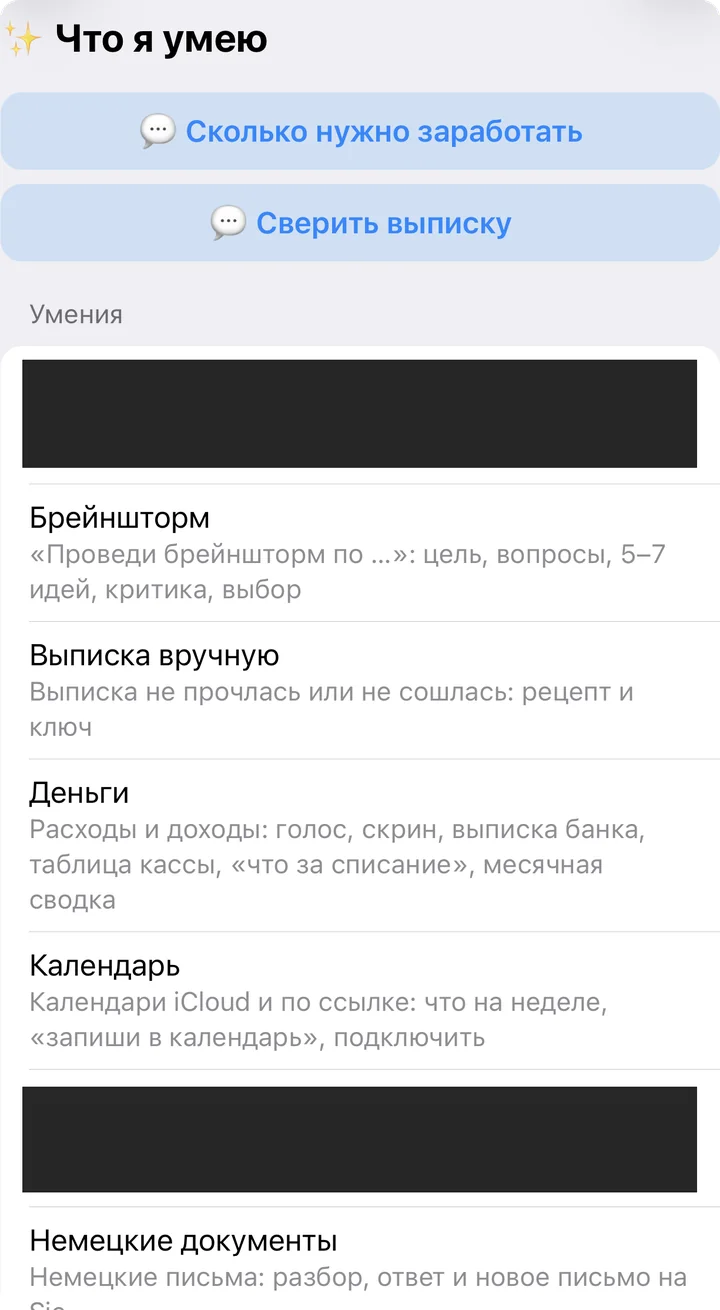
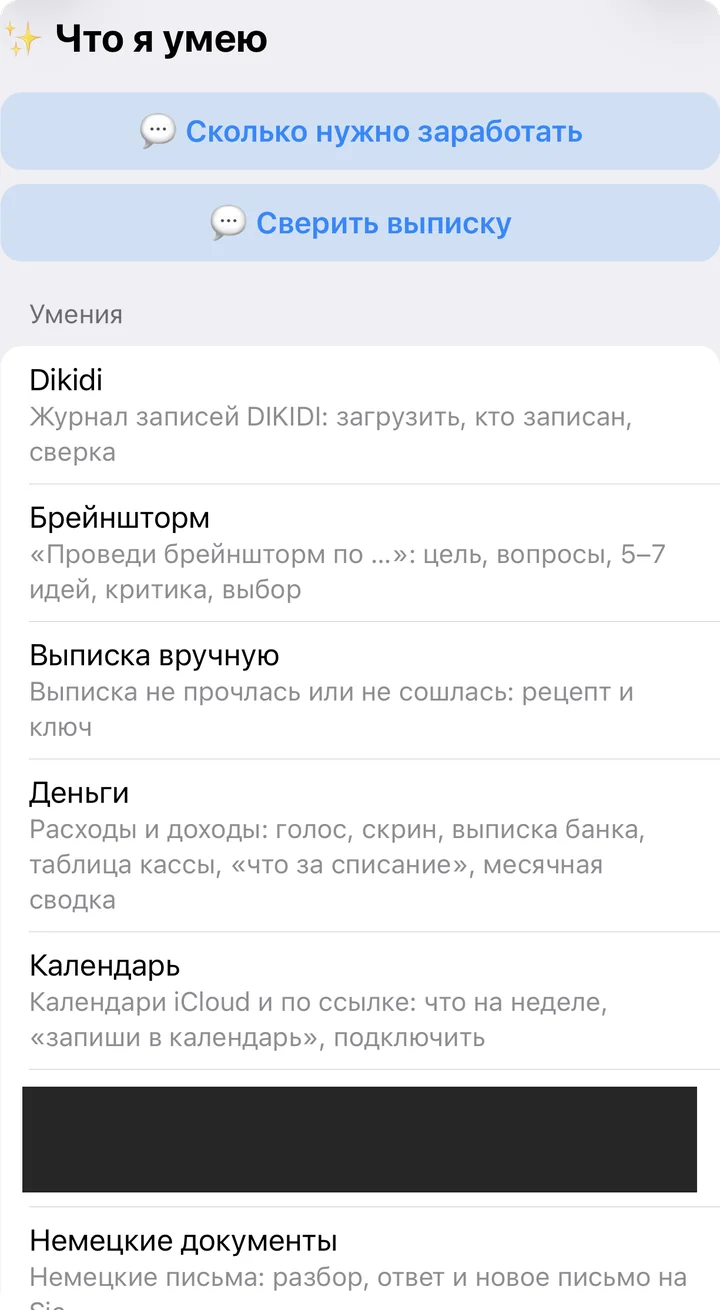
Кейс асистента: б'юті-студія, DIKIDI і SumUp за згодою клієнтки

Changed region(s): [[0.0306, 0.2748, 0.9778, 0.3664]]

diff --git a/ru/cases.html b/ru/cases.html
@@ -58,7 +58,7 @@
 </div></section>
 </article>
 <article class="case">
-<p class="kicker">Владелица бизнеса в Германии</p>
+<p class="kicker">Владелица бьюти-студии в Германии</p>
 <h2>Заменили персонального ассистента</h2>
 <dl class="res">
 <div><dt>в неделю освобождает</dt><dd>≈ 10 ч</dd></div>
@@ -69,8 +69,8 @@
 <div class="two"><section><h3>Заказчик хотел</h3><p>Держать задачи, деньги, немецкие документы и мысли в одном месте, а не в голове. Владелица часто в дороге, поэтому всё должно было работать голосом.</p></section>
 <section><h3>Мы сделали</h3><p>Личного AI-ассистента в Telegram и мини-апп. Наговорила голосовое, а он разложил сказанное по задачам, расходам и заметкам.</p></section></div>
 <section><h3>Как это работает</h3><div class="groups">
-<details class="group"><summary>Задачи и календарь</summary><ul><li>Раскладывает голосовые по задачам и заметкам, напоминает о сроках.</li><li>Ведёт поручения сотрудницам и принимает их отчёты.</li><li>Работает с календарями и журналом записей.</li></ul></details>
-<details class="group"><summary>Деньги</summary><ul><li>Считает расходы и доходы: голос, скрин, выписка банка, таблица кассы.</li><li>Показывает, что не оплачено и кто должен, составляет месячную сводку.</li></ul></details>
+<details class="group"><summary>Задачи и календарь</summary><ul><li>Раскладывает голосовые по задачам и заметкам, напоминает о сроках.</li><li>Ведёт поручения сотрудницам и принимает их отчёты.</li><li>Работает с календарями iCloud и журналом записей DIKIDI.</li></ul></details>
+<details class="group"><summary>Деньги</summary><ul><li>Считает расходы и доходы: голос, скрин, выписка банка, таблица кассы, SumUp.</li><li>Показывает, что не оплачено и кто должен, составляет месячную сводку.</li></ul></details>
 <details class="group"><summary>Документы и память</summary><ul><li>Разбирает немецкие письма и готовит ответ.</li><li>Помнит контекст, ведёт дневник, помогает с брейнштормом.</li><li>Читает папку в Google Диске и заполняет таблицы.</li></ul></details>
 </div></section>
 <section><h3>Как это выглядит</h3><div class="shots">

diff --git a/cases.html b/cases.html
@@ -58,7 +58,7 @@
 </div></section>
 </article>
 <article class="case">
-<p class="kicker">Власниця бізнесу в Німеччині</p>
+<p class="kicker">Власниця б’юті-студії в Німеччині</p>
 <h2>Замінили персонального асистента</h2>
 <dl class="res">
 <div><dt>на тиждень звільняє</dt><dd>≈ 10 год</dd></div>
@@ -69,8 +69,8 @@
 <div class="two"><section><h3>Замовник хотів</h3><p>Тримати задачі, гроші, німецькі документи й думки в одному місці, а не в голові. Власниця часто в дорозі, тому все мало працювати голосом.</p></section>
 <section><h3>Ми зробили</h3><p>Особистого AI-асистента в Telegram і міні-апку. Наговорила голосове, а він розклав сказане по задачах, витратах і нотатках.</p></section></div>
 <section><h3>Так працює</h3><div class="groups">
-<details class="group"><summary>Задачі й календар</summary><ul><li>Розкладає голосові по задачах і нотатках, нагадує про строки.</li><li>Веде доручення співробітницям і приймає їхні звіти.</li><li>Працює з календарями та журналом записів.</li></ul></details>
-<details class="group"><summary>Гроші</summary><ul><li>Рахує витрати й доходи: голос, скрін, виписка банку, таблиця каси.</li><li>Показує, що не оплачено і хто винен, складає місячне зведення.</li></ul></details>
+<details class="group"><summary>Задачі й календар</summary><ul><li>Розкладає голосові по задачах і нотатках, нагадує про строки.</li><li>Веде доручення співробітницям і приймає їхні звіти.</li><li>Працює з календарями iCloud і журналом записів DIKIDI.</li></ul></details>
+<details class="group"><summary>Гроші</summary><ul><li>Рахує витрати й доходи: голос, скрін, виписка банку, таблиця каси, SumUp.</li><li>Показує, що не оплачено і хто винен, складає місячне зведення.</li></ul></details>
 <details class="group"><summary>Документи й пам’ять</summary><ul><li>Розбирає німецькі листи й готує відповідь.</li><li>Пам’ятає контекст, веде щоденник, допомагає з брейнштормом.</li><li>Читає папку в Google Диску й заповнює таблиці.</li></ul></details>
 </div></section>
 <section><h3>Як це виглядає</h3><div class="shots">

diff --git a/en/cases.html b/en/cases.html
@@ -58,7 +58,7 @@
 </div></section>
 </article>
 <article class="case">
-<p class="kicker">Business owner in Germany</p>
+<p class="kicker">Beauty studio owner in Germany</p>
 <h2>We replaced a personal assistant</h2>
 <dl class="res">
 <div><dt>freed up every week</dt><dd>≈ 10 h</dd></div>
@@ -69,8 +69,8 @@
 <div class="two"><section><h3>The client wanted</h3><p>Keep tasks, money, German paperwork and ideas in one place instead of in her head. The owner is often on the road, so everything had to work by voice.</p></section>
 <section><h3>We built</h3><p>A personal AI assistant in Telegram and a mini app. She records a voice note, and it sorts what she said into tasks, expenses and notes.</p></section></div>
 <section><h3>How it works</h3><div class="groups">
-<details class="group"><summary>Tasks and calendar</summary><ul><li>Sorts voice notes into tasks and notes, reminds about deadlines.</li><li>Tracks assignments for staff and collects their reports.</li><li>Works with calendars and the bookings log.</li></ul></details>
-<details class="group"><summary>Money</summary><ul><li>Tracks expenses and income from voice, screenshots, bank statements and the till sheet.</li><li>Shows what is unpaid and who owes what, and builds a monthly summary.</li></ul></details>
+<details class="group"><summary>Tasks and calendar</summary><ul><li>Sorts voice notes into tasks and notes, reminds about deadlines.</li><li>Tracks assignments for staff and collects their reports.</li><li>Works with iCloud calendars and the DIKIDI bookings log.</li></ul></details>
+<details class="group"><summary>Money</summary><ul><li>Tracks expenses and income from voice, screenshots, bank statements, the till sheet and SumUp.</li><li>Shows what is unpaid and who owes what, and builds a monthly summary.</li></ul></details>
 <details class="group"><summary>Documents and memory</summary><ul><li>Breaks down German letters and drafts replies.</li><li>Remembers context, keeps a diary, helps with brainstorming.</li><li>Reads a Google Drive folder and fills in spreadsheets.</li></ul></details>
 </div></section>
 <section><h3>What it looks like</h3><div class="shots">
